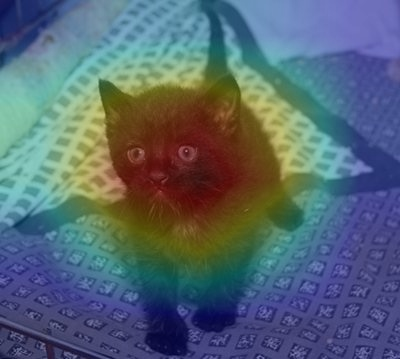
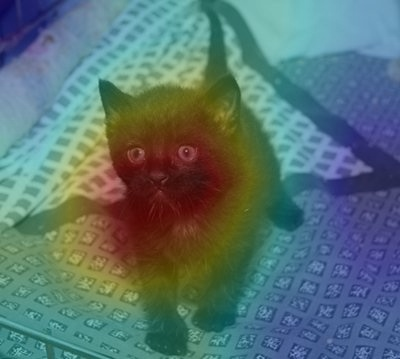
set the configuration to run, and add the comment for debugging

diff --git a/pytorch_CAM/update.py b/pytorch_CAM/update.py
@@ -1,4 +1,5 @@
 import cv2
+import matplotlib.pyplot as plt
 import numpy as np
 import torch
 from torch.autograd import Variable
@@ -8,38 +9,70 @@ from torchvision import transforms
 
 # generate class activation mapping for the top1 prediction
 def returnCAM(feature_conv, weight_softmax, class_idx):
+    # feature_conv.shape = (1, 2048, 5, 5)
+    # weight_softmax.shape = (2, 2048)
+
     # generate the class activation maps upsample to 256x256
     size_upsample = (256, 256)
     bz, nc, h, w = feature_conv.shape
     output_cam = []
-    for idx in class_idx:
-        cam = weight_softmax[class_idx].dot(feature_conv.reshape((nc, h*w)))
+    for i, idx in enumerate(class_idx):
+        cam = weight_softmax[idx].dot(feature_conv.reshape((nc, h*w)))
+        # cam.shape = (1, 25)
         cam = cam.reshape(h, w)
+        # cam.shape = (5, 5)
         cam = cam - np.min(cam)
         cam_img = cam / np.max(cam)
         cam_img = np.uint8(255 * cam_img)
-        output_cam.append(cv2.resize(cam_img, size_upsample))
+        cam_img_upsample = cv2.resize(cam_img, size_upsample)
+        # cam_img_upsample.shape = (256, 256)
+        output_cam.append(cam_img_upsample)
+
+        if i < 2:
+            plt.subplot(1, 2, i+1)
+            plt.title(idx)
+            plt.imshow(cam_img_upsample)
+
+    plt.show(block=False)
+    plt.pause(1)
+    plt.savefig('sorted_class_cam.png')
+
     return output_cam
 
 
 def get_cam(model, features_blobs, img_tensor, classes, device):
+    # img_tensor.shape = torch.Size([3, 224, 224])
     img_variable = img_tensor.unsqueeze(0).to(device)
+    # img_variable.shape = torch.Size([1, 3, 224, 224])
     logit = model(img_variable)
+    # logit.data = tensor([[ 0.2154, -1.5496]]), logit.shape = torch.Size([1, 2])
 
     h_x = F.softmax(logit, dim=1).data.squeeze()
+    # h_x.data = tensor([0.8538, 0.1462]), h_x.shape = torch.Size([2])
     probs, idx = h_x.sort(0, True)
+    # probs.data = tensor([0.8538, 0.1462])
+    # idx.data = tensor([0, 1])
 
     # output: the prediction
-    for i in range(0, 2):
-        line = '{:.3f} -> {}'.format(probs[i], classes[idx[i].item()])
-        print(line)
+    for i in range(len(classes)):
+        print('{:.3f} -> {}'.format(probs[i], classes[idx[i].item()]))
 
     params = list(model.parameters())
+    # len(params) = 292
+    # params[-6] == params[286], params[286].shape = torch.Size([384])
+    # params[-5] == params[287], params[287].shape = torch.Size([192, 2048, 1, 1])
+    # params[-4] == params[288], params[288].shape = torch.Size([192])
+    # params[-3] == params[289], params[289].shape = torch.Size([192])
+    # params[-2] == params[290], params[290].shape = torch.Size([2, 2048])
+    # params[-1] == params[291], params[291].shape = torch.Size([2])
     weight_softmax = np.squeeze(params[-2].data.cpu().numpy())
+    # weight_softmax.shape = (2, 2048)
 
-    CAMs = returnCAM(features_blobs[0], weight_softmax, [idx[0].item()])
+    CAMs = returnCAM(features_blobs[0],
+                     weight_softmax, idx.data.cpu().tolist())
 
     # render the CAM and output
-    print('output CAM.jpg for the top1 prediction: %s' % classes[idx[0].item()])
+    print('output CAM.jpg for the top1 prediction: %s' %
+          classes[idx[0].item()])
 
     return CAMs

diff --git a/pytorch_CAM/main.py b/pytorch_CAM/main.py
@@ -9,6 +9,7 @@ import cv2
 import torch
 from torch.utils.data import DataLoader
 from torch.utils.tensorboard import SummaryWriter
+from torchsummary import summary
 from torchvision import datasets, transforms
 
 from data import *
@@ -17,8 +18,8 @@ from train import *
 from update import *
 
 # functions
-CAM             = 1
-RESUME          = None
+CAM             = True
+RESUME          = 352
 PRETRAINED      = False
 
 
@@ -26,7 +27,7 @@ PRETRAINED      = False
 BATCH_SIZE      = 64
 IMG_SIZE        = 224
 LEARNING_RATE   = 1e-3
-EPOCH           = 1000
+EPOCH           = 0
 
 
 # prepare data
@@ -73,14 +74,16 @@ else:
     model = inception_v3(pretrained=PRETRAINED,
                          num_classes=len(train_data.classes))
 
-model.to(device)
+summary(model, (3, 224, 224))
 
 
 # load checkpoint
 if RESUME is not None:
     print("===> Resuming from checkpoint.")
     assert os.path.isfile('checkpoint/'+ str(RESUME) + '.pt'), 'Error: no checkpoint found!'
-    model.load_state_dict(torch.load('checkpoint/' + str(RESUME) + '.pt'))
+    model.load_state_dict(torch.load('checkpoint/' + str(RESUME) + '.pt', map_location=device))
+
+model.to(device)
 
 
 # retrain
@@ -124,13 +127,13 @@ if CAM:
     root = 'sample.jpg'
     img_pil = Image.open(root)
 
-    preprocess = transforms.Compose([
+    transform_preprocess = transforms.Compose([
         transforms.Resize((224, 224)),
         transforms.ToTensor(),
         normalize
     ])
 
-    img_tensor = preprocess(img_pil)
+    img_tensor = transform_preprocess(img_pil)
 
     # class
     classes = {0: 'cat', 1: 'dog'}

diff --git a/pytorch_CAM/train.py b/pytorch_CAM/train.py
@@ -43,9 +43,9 @@ def retrain(trainloader, model, device, criterion, optimizer, epoch):
 
     os.makedirs('result', exist_ok=True)
     with open('result/train_acc.txt', 'a') as f:
-        f.write(str(acc_avg))
+        f.write(str(acc_avg) + '\n')
     with open('result/train_loss.txt', 'a') as f:
-        f.write(str(loss_avg))
+        f.write(str(loss_avg) + '\n')
 
     return loss_avg, acc_avg / 100.
 
@@ -83,11 +83,11 @@ def retest(testloader, model, device, criterion, epoch):
     if epoch % 1 == 0:
         torch.save(model.state_dict(), 'checkpoint/' + str(epoch) + '.pt')
         with open('result/result.txt', 'a') as f:
-            f.write(result)
+            f.write(result + '\n')
 
     with open('result/test_acc.txt', 'a') as f:
-        f.write(str(test_acc))
+        f.write(str(test_acc) + '\n')
     with open('result/test_loss.txt', 'a') as f:
-        f.write(str(test_loss))
+        f.write(str(test_loss) + '\n')
 
     return test_loss, test_acc / 100.
